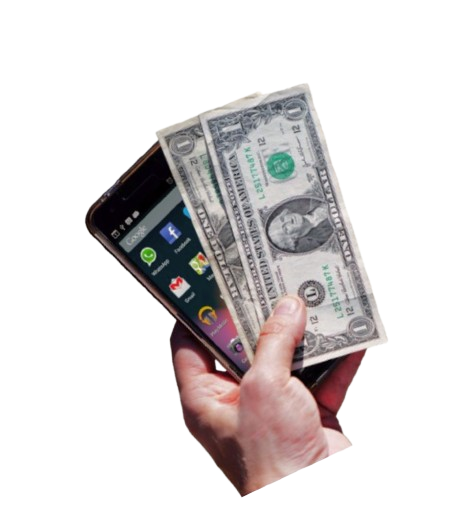
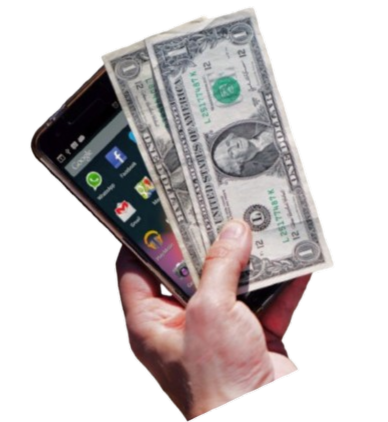
feat: imagens ajustadas dentro do fundo oval

diff --git a/src/index.css b/src/index.css
@@ -96,22 +96,26 @@ body {
   display: flex;
   justify-content: center;
   flex-wrap: wrap;
-  gap: 20px;
-  margin-top: 20px;
+  gap: 40px;
+  margin: 40px 0;
   
 }
 
 .fundoOval {
   position: relative;
   width: 300px;
-  height: 450px;
+  height: 420px;
   background-color: #0b9444;
   border-radius: 50% / 35%;
   display: flex;
   align-items: center;
   justify-content: center; 
    filter: drop-shadow(0px 0px 25px #06df2a);
+  
    
+}
+.hidden{
+   overflow: hidden;
 }
 
 .fundoOval:nth-child(2){
@@ -119,25 +123,30 @@ body {
 }
 
     .chave{
-     margin-top: 250px;
+      
+     margin-top: 105px;
      width: 300px;
-     margin-left: 2px;
+    
   }
     .pessoa{
       width: 380px;
-      margin-bottom: 25px;
-      margin-right: 4px;
-     
+      margin-top: 80px;
+      /* border-bottom-left-radius: 50%;
+      border-bottom-right-radius: 50%;  */
     }
 
     .mao{
-    margin-right: 60px;
+    margin-top: 160px;
+    margin-right: 0px;
+    width: 100%;
+   
   }
 
     img{
         max-width: 100%;
         height: auto;
         z-index: 1;
+      object-fit: cover;
   }
 
 

diff --git a/src/components/CaloteSection.jsx b/src/components/CaloteSection.jsx
@@ -9,10 +9,10 @@ function CaloteSection() {
       </p>
 
       <div className="imagens-calote">
-        <div className="fundoOval">
+        <div className="fundoOval hidden">
           <img className="mao" src="/imagens/dinheiroMao.png" alt="Dinheiro na mão" />
         </div>
-        <div className="fundoOval">
+        <div className="fundoOval hidden">
           <img className="pessoa" src="/imagens/pessoaFeliz.png" alt="Pessoa feliz" />
         </div>
         <div className="fundoOval">
